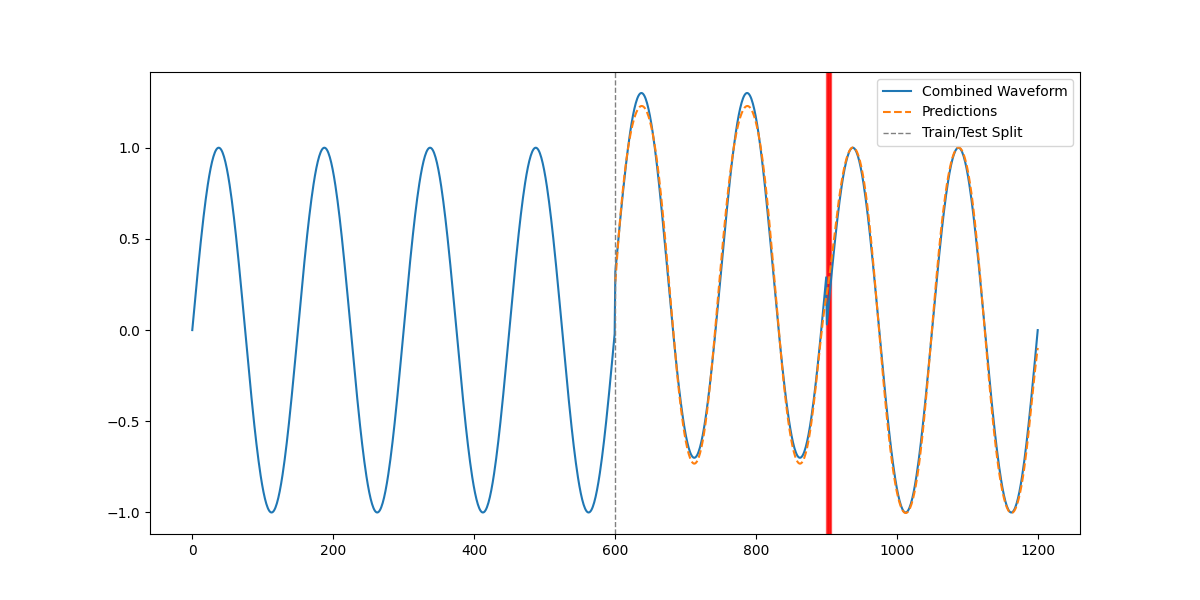
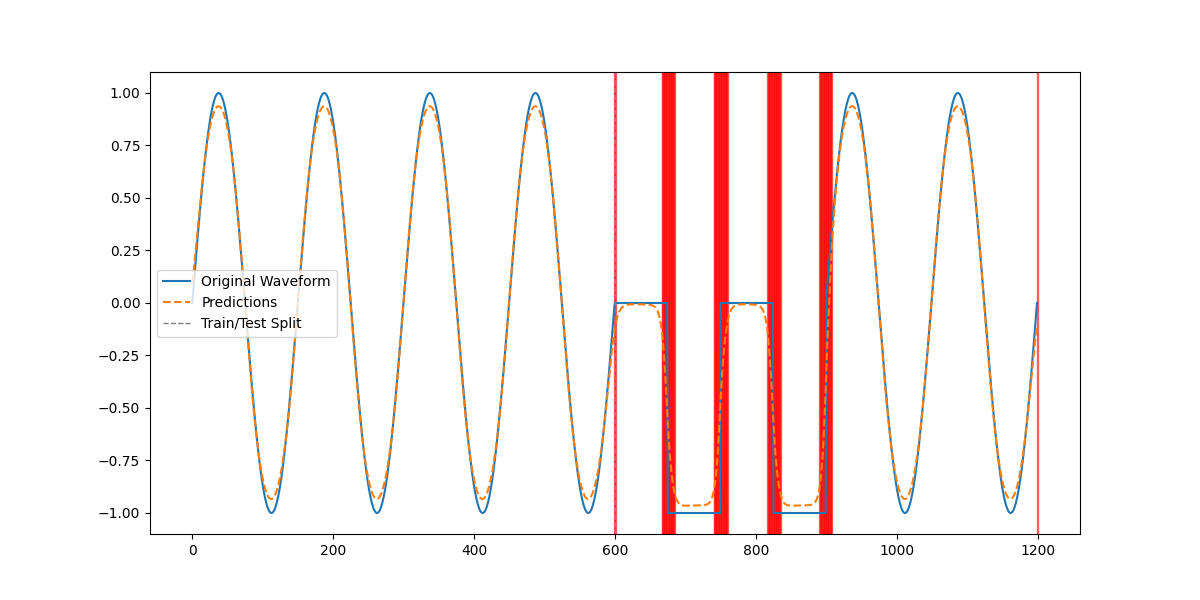
feat:add huadong

diff --git a/14-BI-lSTM+波形识别/main.py b/14-BI-lSTM+波形识别/main.py
@@ -1,9 +1,8 @@
 import numpy as np
 from keras.models import Sequential
 from keras.layers import Bidirectional, LSTM, Dense
-from keras.optimizers import RMSprop
-import matplotlib.pyplot as plt
 from keras.optimizers import Adam
+import matplotlib.pyplot as plt
 
 # 生成模拟波形数据
 def generate_waveform(cycle_length, num_cycles):
@@ -13,7 +12,7 @@ def generate_waveform(cycle_length, num_cycles):
 
 # 在指定位置添加异常值
 def add_anomalies(waveform, start, end):
-    waveform[start:end] =  waveform[start:end] +0.3
+    waveform[start:end] = waveform[start:end] + 0.3
     return waveform
 
 # 划分数据
@@ -22,34 +21,43 @@ def split_data(waveform):
     test_data = waveform[len(waveform)//2:]
     return train_data, test_data
 
+# 创建滑动窗口数据
+def create_window_data(data, window_size):
+    windows = []
+    for i in range(len(data) - window_size + 1):
+        windows.append(data[i:i + window_size])
+    return np.array(windows)
+
 # 创建模拟数据
 waveform = generate_waveform(150, 8)
-# 在后50%的数据中添加异常值
 waveform = add_anomalies(waveform, len(waveform)//2, len(waveform)//2 + len(waveform)//4)
 train_data, test_data = split_data(waveform)
 
 # 填充和转换数据
-train_data_padded = train_data.reshape(1, -1, 1)
-test_data_padded = test_data.reshape(1, -1, 1)
+train_windows = create_window_data(train_data, 50)
+test_windows = create_window_data(test_data, 50)
+
+train_windows_padded = train_windows.reshape(-1, 50, 1)
+test_windows_padded = test_windows.reshape(-1, 50, 1)
 
 # 创建Bi-LSTM模型
 model = Sequential([
-    Bidirectional(LSTM(64, return_sequences=True), input_shape=(None, 1)),
+    Bidirectional(LSTM(64, return_sequences=True), input_shape=(50, 1)),
     Bidirectional(LSTM(32, return_sequences=True)),
-    Dense(1)  # 输出层只有一个单元
+    Dense(1)
 ])
 
-# 使用RMSprop优化器
+# 使用Adam优化器
 optimizer = Adam(learning_rate=0.001)
 
 # 编译模型
 model.compile(loss='mean_squared_error', optimizer=optimizer)
 
 # 训练模型
-model.fit(train_data_padded, train_data_padded, epochs=50, verbose=1)
+model.fit(train_windows_padded, train_windows_padded, epochs=50, verbose=1)
 
 # 预测
-predictions = model.predict(test_data_padded)
+predictions = model.predict(test_windows_padded)
 
 plt.figure(figsize=(12, 6))
 
@@ -57,17 +65,17 @@ plt.figure(figsize=(12, 6))
 combined_data = np.concatenate((train_data, test_data))
 
 plt.plot(combined_data, label='Combined Waveform')
-plt.plot(np.arange(len(train_data), len(combined_data)), predictions.flatten(), label='Predictions', linestyle='--')
+plt.plot(np.arange(len(train_data) + 49, len(combined_data)), predictions[:, -1], label='Predictions', linestyle='--')
 
 # 计算预测误差
-errors = np.abs(predictions.flatten() - test_data)
+errors = np.abs(predictions[:, -1].flatten() - test_data[49:])
 
-# 使用阈值0.5来标记异常
+# 使用阈值0.1来标记异常
 for i, error in enumerate(errors):
     if error > 0.1:
         plt.axvspan(i + len(train_data), i + len(train_data) + 1, color='red', alpha=0.5)
 
-plt.axvline(len(train_data), color='gray', linestyle='--', linewidth=1, label='Train/Test Split')  # 添加训练和测试数据的分界线
+plt.axvline(len(train_data), color='gray', linestyle='--', linewidth=1, label='Train/Test Split')
 plt.legend()
 # plt.show()
-plt.savefig('waveform_plot.png')  # 保存图像而不是显示它
+plt.savefig('waveform_plot2.png')  # 保存图像而不是显示它
